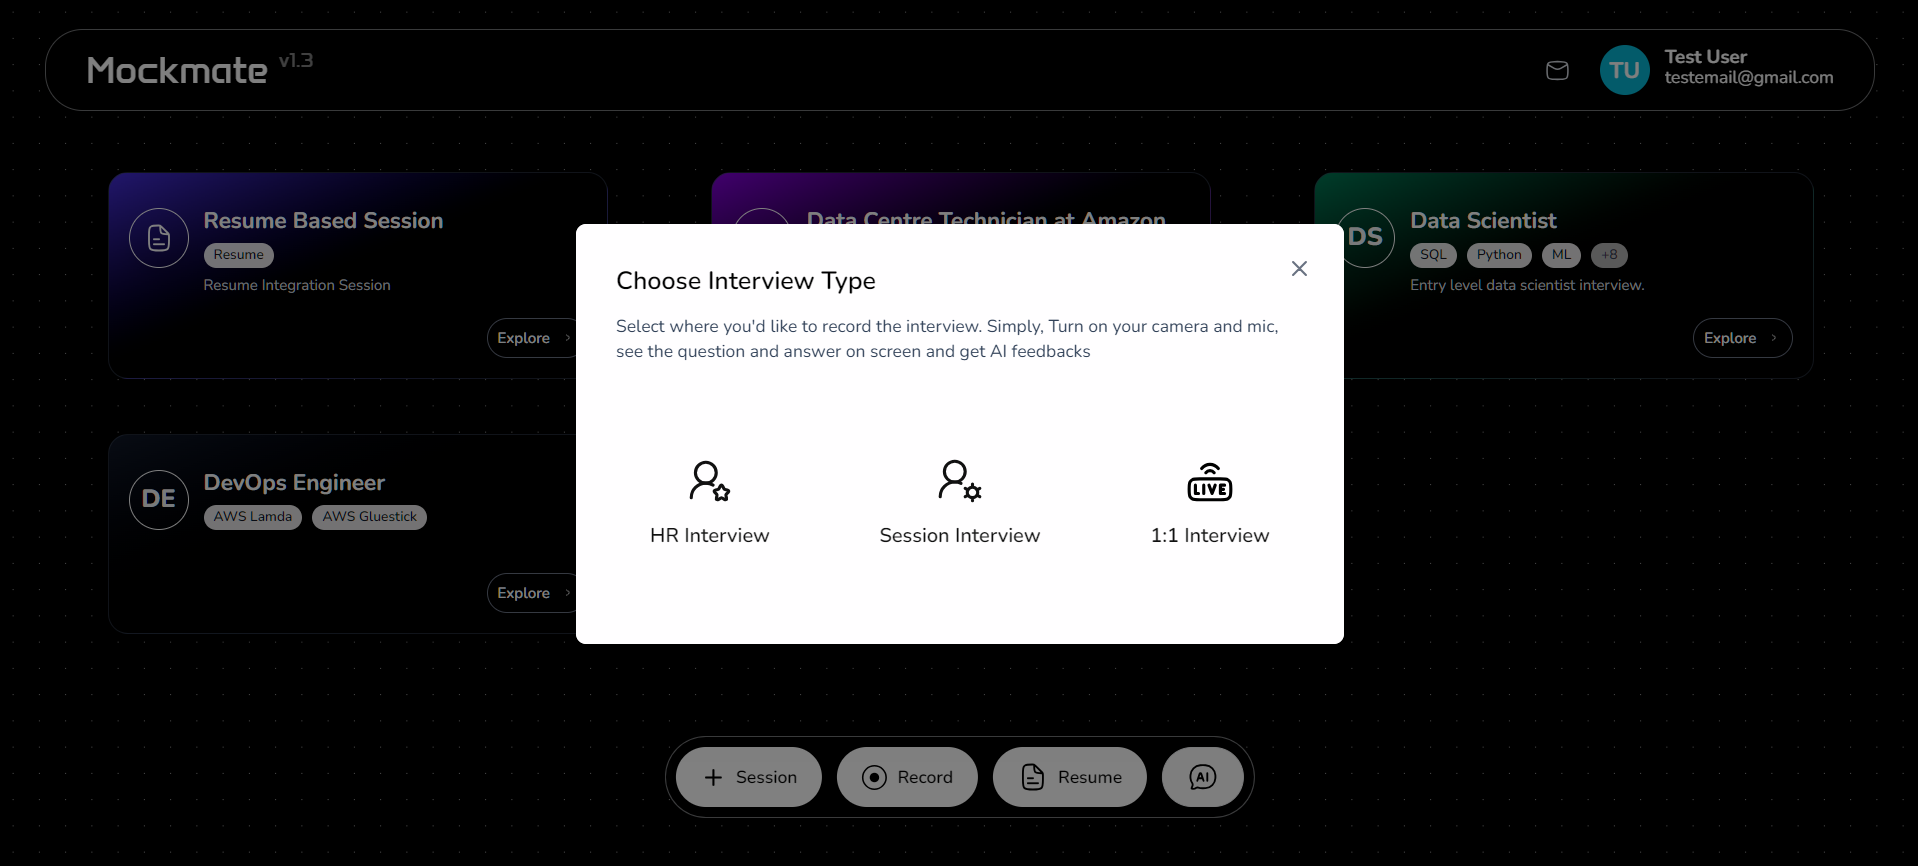
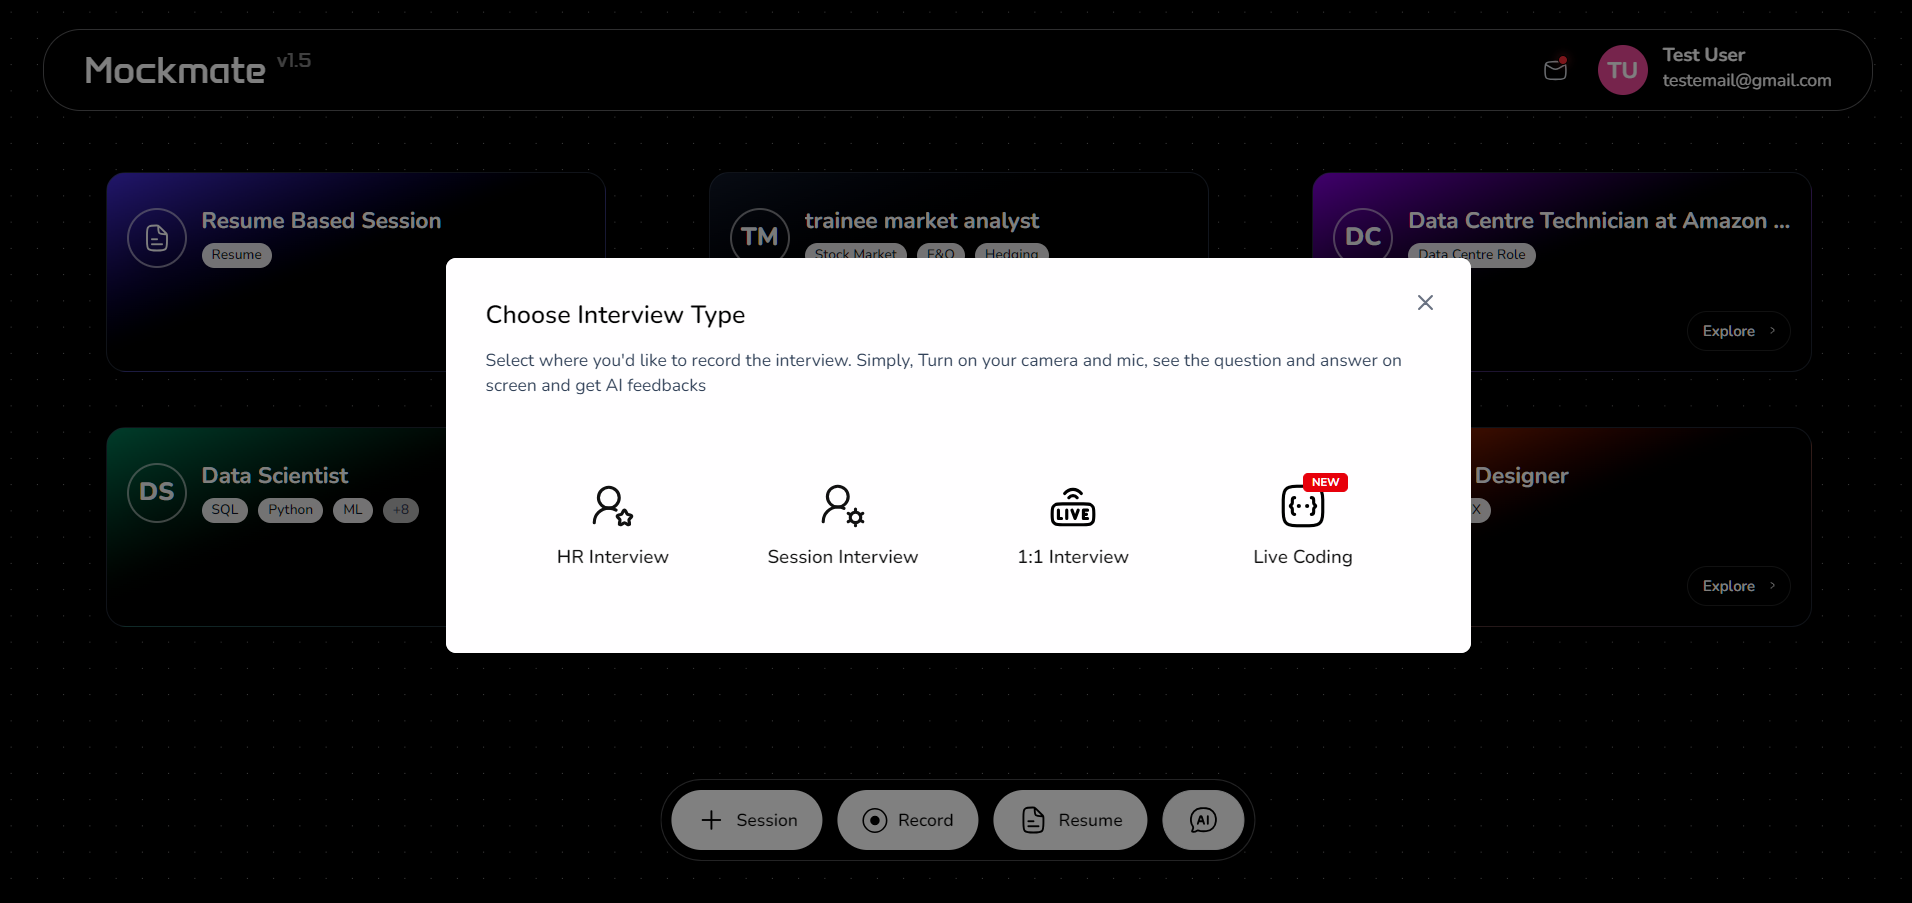
docs: update README with Live Coding feature and new assets

diff --git a/README.md b/README.md
@@ -51,11 +51,14 @@ Before jumping into a seat, you need to define your targets. MockMate allows you
 ![Interview Prep](Assets/Session%20-%20InterviewPrep.png)
 
 ### Phase 2: Practice (The Arena)
-Practice makes perfect. Choose between HR-style behavioral rounds, session-specific technical drills, or the high-intensity **Live Interview** mode.
+Practice makes perfect. Choose between HR-style behavioral rounds, session-specific technical drills, the high-intensity **Live Interview** mode, or the real-time **Live Coding Environment**.
+
+- **Live Coding Mode**: A premium, dual-pane IDE experience powered by Monaco Editor. Synchronize your code in real-time natively through WebSockets across multiple languages (JavaScript, Python, Java, C++) while maintaining tightly integrated, split-screen video feeds to simulate an authentic technical pair-programming interview!
 
 ![Practice Selection](Assets/Interview%20-%20InterviewType.png)
 ![HR Practice](Assets/Interview%20-%20HRInterview.png)
 ![Live Practice](Assets/Interview%20-%20LiveInterview.png)
+![Coding Interview](Assets/Interview%20-%20CodingInterview.png)
 
 ### Phase 3: Analysis (The Feedback Loop)
 Your resume is your gateway. Use our Bento-style resume workspace to manage your source links, get AI-powered improvement tips, and run an ATS analysis against your target roles.
